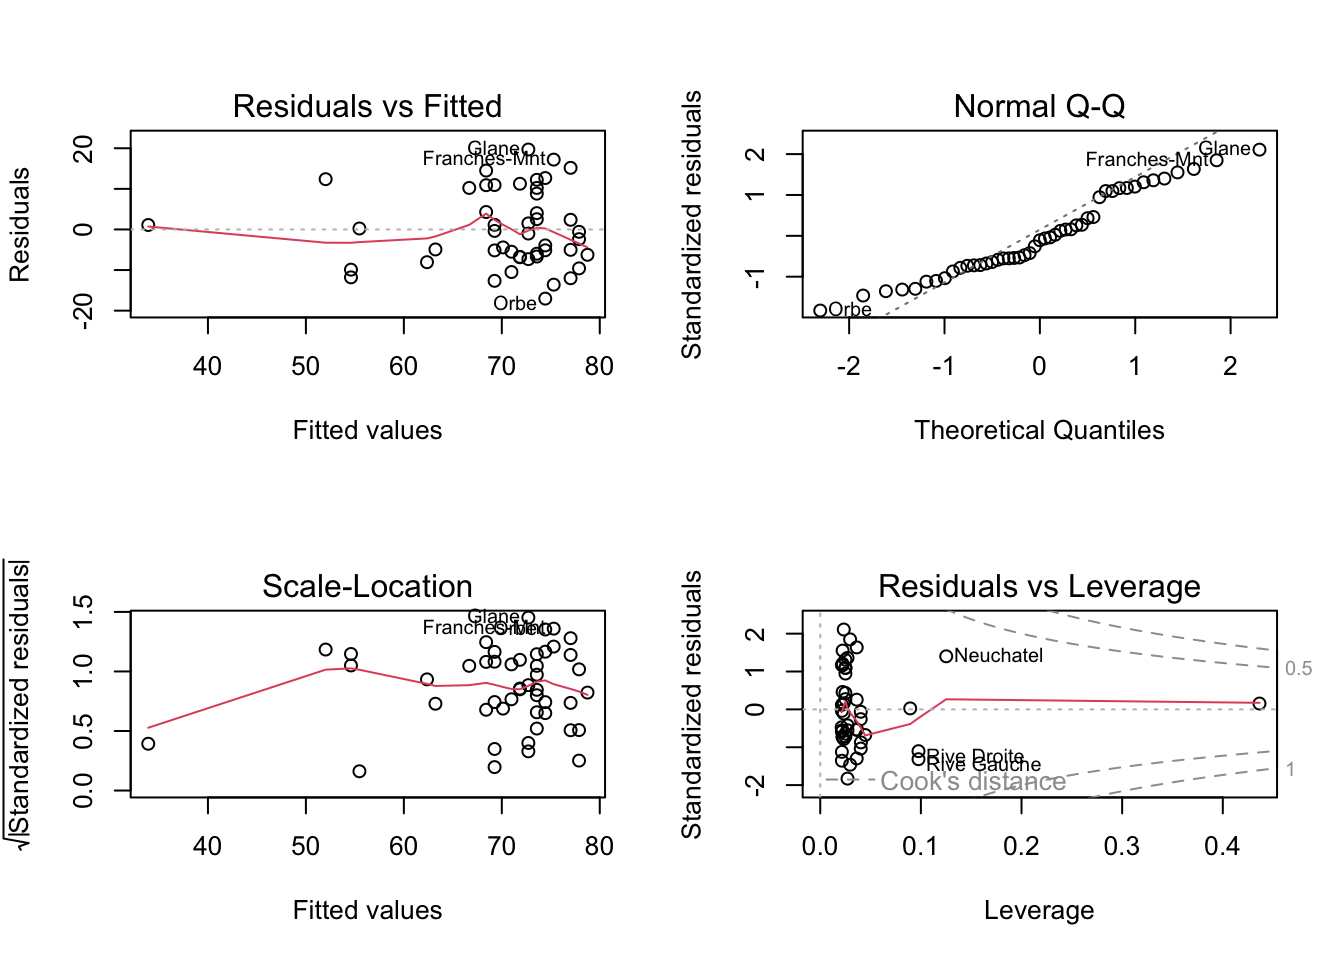
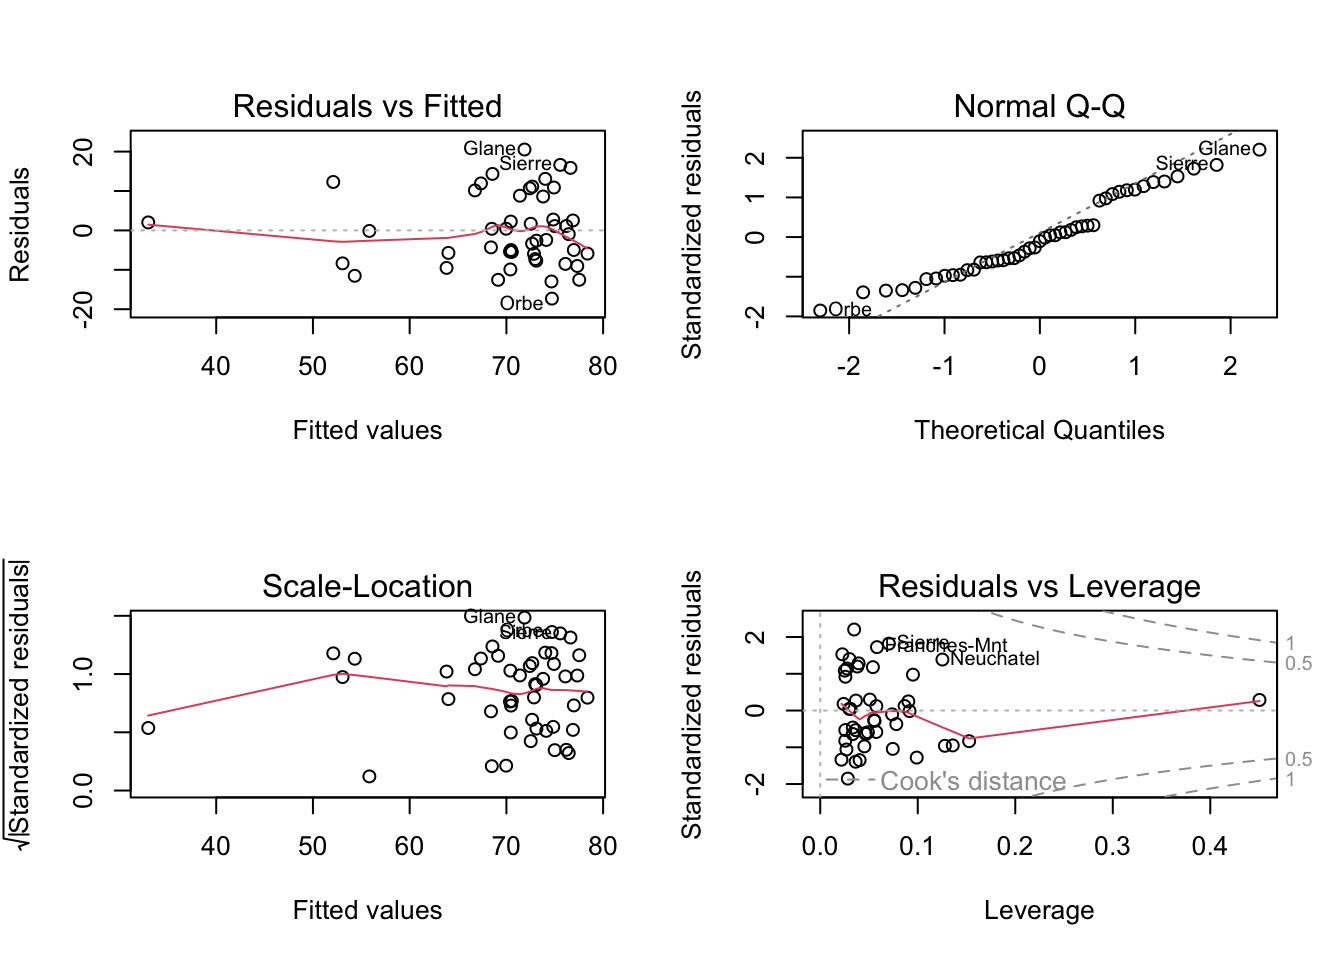
Update

diff --git a/docs/R_Tips.html b/docs/R_Tips.html
@@ -572,7 +572,7 @@ violated.</p>
 <p>For instance, a linear regression to determine whether there is a
 correlation between education and fertility using the <code>Swiss</code>
 dataset in r.</p>
-<div class="sourceCode" id="cb8"><pre class="sourceCode r"><code class="sourceCode r"><span id="cb8-1"><a href="#cb8-1" aria-hidden="true" tabindex="-1"></a>model_1 <span class="ot">&lt;-</span> <span class="fu">lm</span>(Fertility<span class="sc">~</span>Education, <span class="at">data=</span>swiss)</span>
+<div class="sourceCode" id="cb8"><pre class="sourceCode r"><code class="sourceCode r"><span id="cb8-1"><a href="#cb8-1" aria-hidden="true" tabindex="-1"></a>model_1 <span class="ot">&lt;-</span> <span class="fu">lm</span>(Fertility<span class="sc">~</span>Education <span class="sc">+</span> Agriculture, <span class="at">data=</span>swiss)</span>
 <span id="cb8-2"><a href="#cb8-2" aria-hidden="true" tabindex="-1"></a></span>
 <span id="cb8-3"><a href="#cb8-3" aria-hidden="true" tabindex="-1"></a><span class="fu">par</span>(<span class="at">mfrow =</span> <span class="fu">c</span>(<span class="dv">2</span>, <span class="dv">2</span>))</span>
 <span id="cb8-4"><a href="#cb8-4" aria-hidden="true" tabindex="-1"></a><span class="fu">plot</span>(model_1)</span></code></pre></div>
@@ -593,10 +593,10 @@ may be influenced by outliers. We can check this using
 <code>check_outliers()</code> and <code>check_normality()</code>:</p>
 <div class="sourceCode" id="cb10"><pre class="sourceCode r"><code class="sourceCode r"><span id="cb10-1"><a href="#cb10-1" aria-hidden="true" tabindex="-1"></a><span class="fu">check_outliers</span>(model_1)</span></code></pre></div>
 <pre><code>## OK: No outliers detected.
-## - Based on the following method and threshold: cook (0.704).
+## - Based on the following method and threshold: cook (0.801).
 ## - For variable: (Whole model)</code></pre>
 <div class="sourceCode" id="cb12"><pre class="sourceCode r"><code class="sourceCode r"><span id="cb12-1"><a href="#cb12-1" aria-hidden="true" tabindex="-1"></a><span class="fu">check_normality</span>(model_1)</span></code></pre></div>
-<pre><code>## OK: residuals appear as normally distributed (p = 0.060).</code></pre>
+<pre><code>## OK: residuals appear as normally distributed (p = 0.089).</code></pre>
 <p><br></p>
 </div>
 
